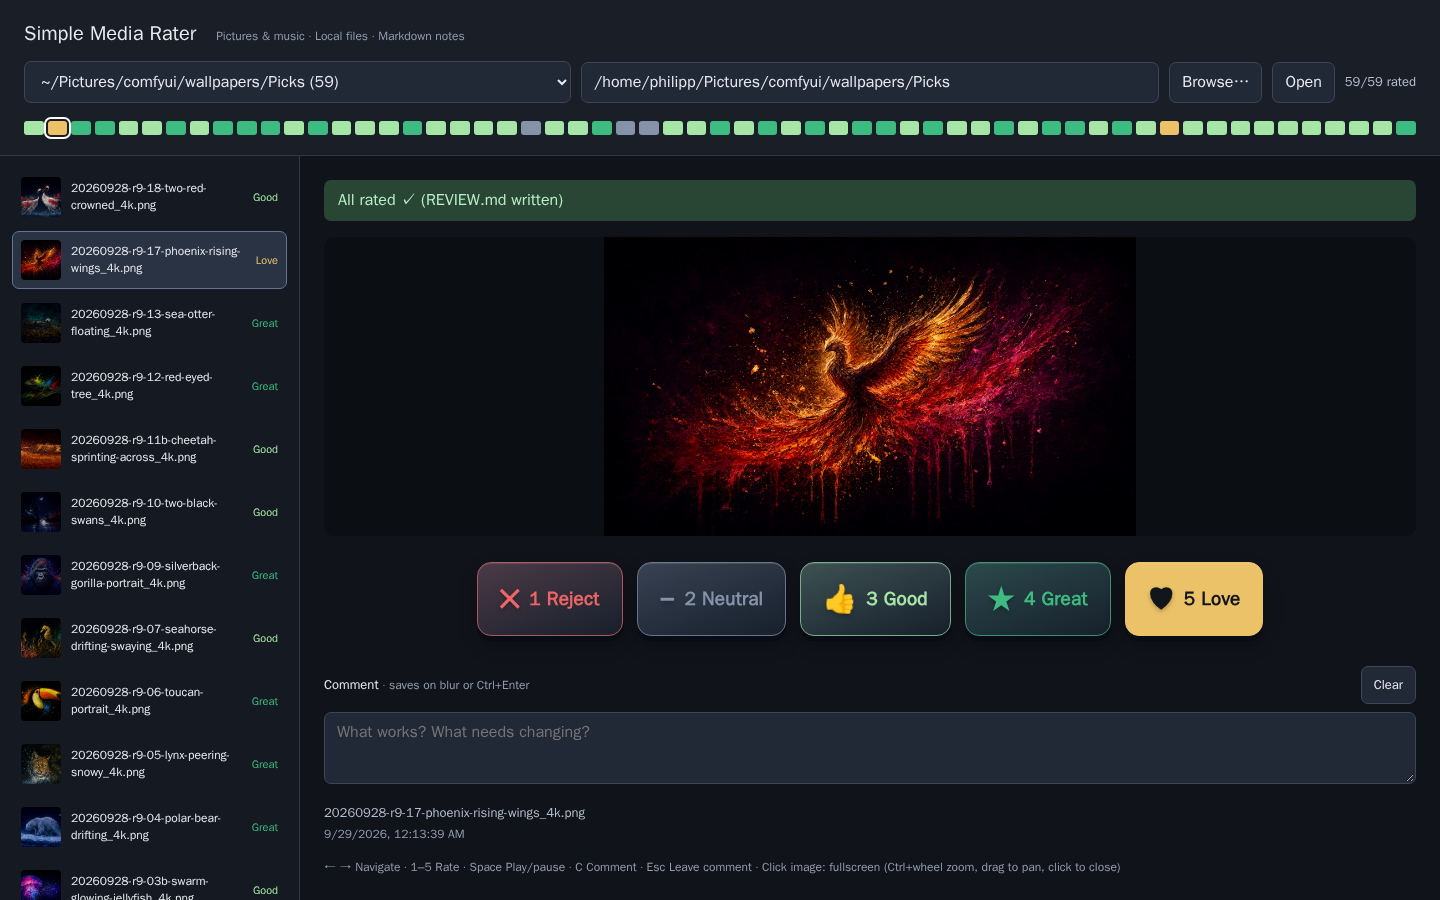
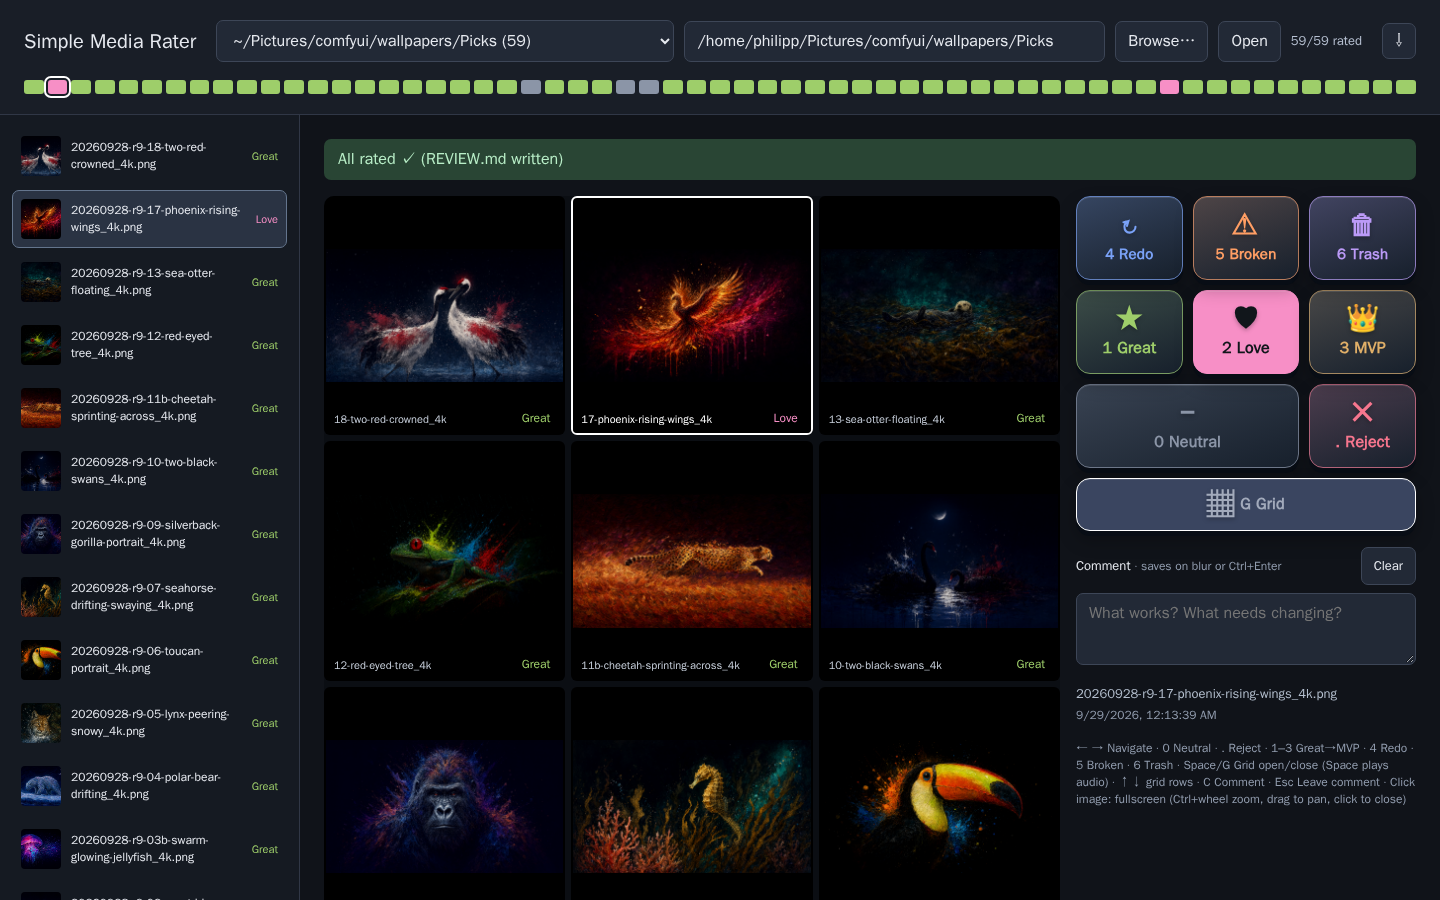
Screenshot: grid view with sidebar

diff --git a/README.md b/README.md
@@ -2,7 +2,7 @@
 
 Tiny local web app for rating generated images and music one file at a time. Python standard library only: no install, no build.
 
-![Simple Media Rater rating a folder of wallpapers](docs/screenshot.png)
+![Simple Media Rater: grid view with the numpad sidebar](docs/screenshot.png)
 
 ## Setup
 
